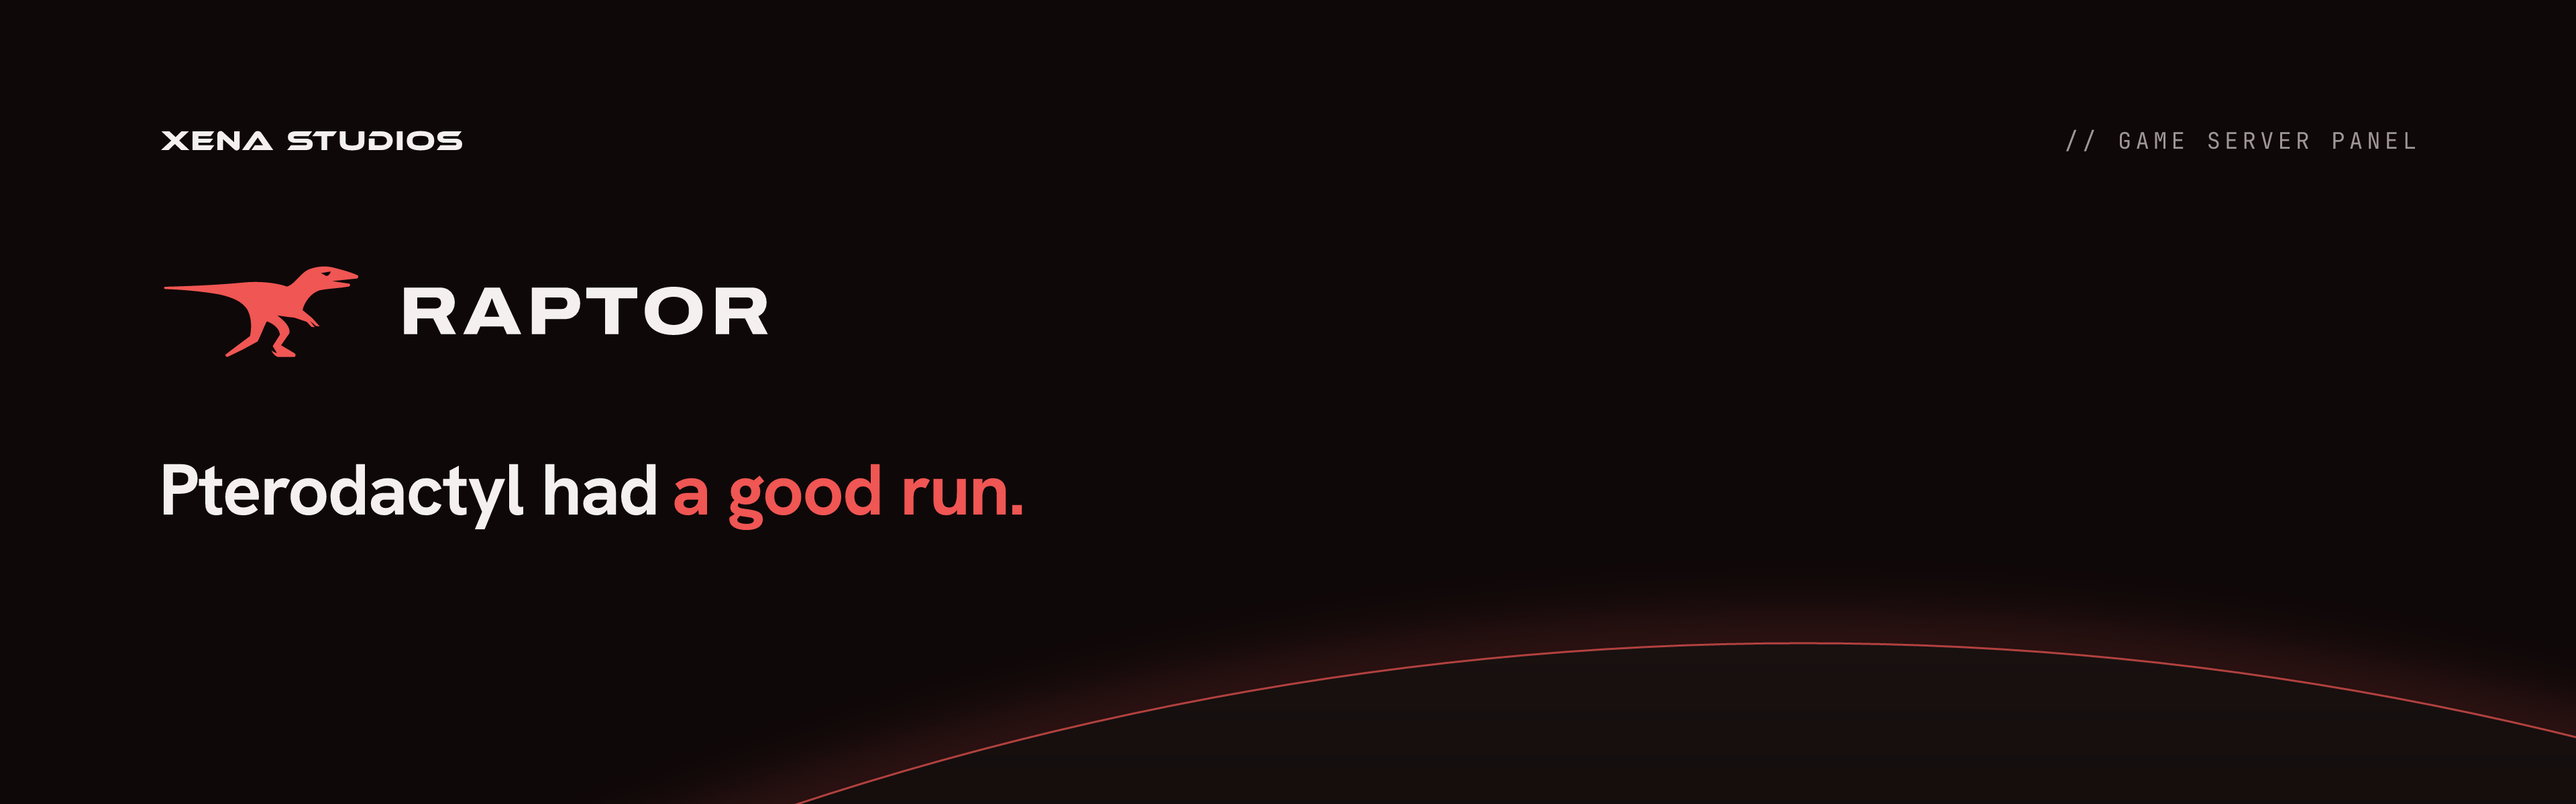
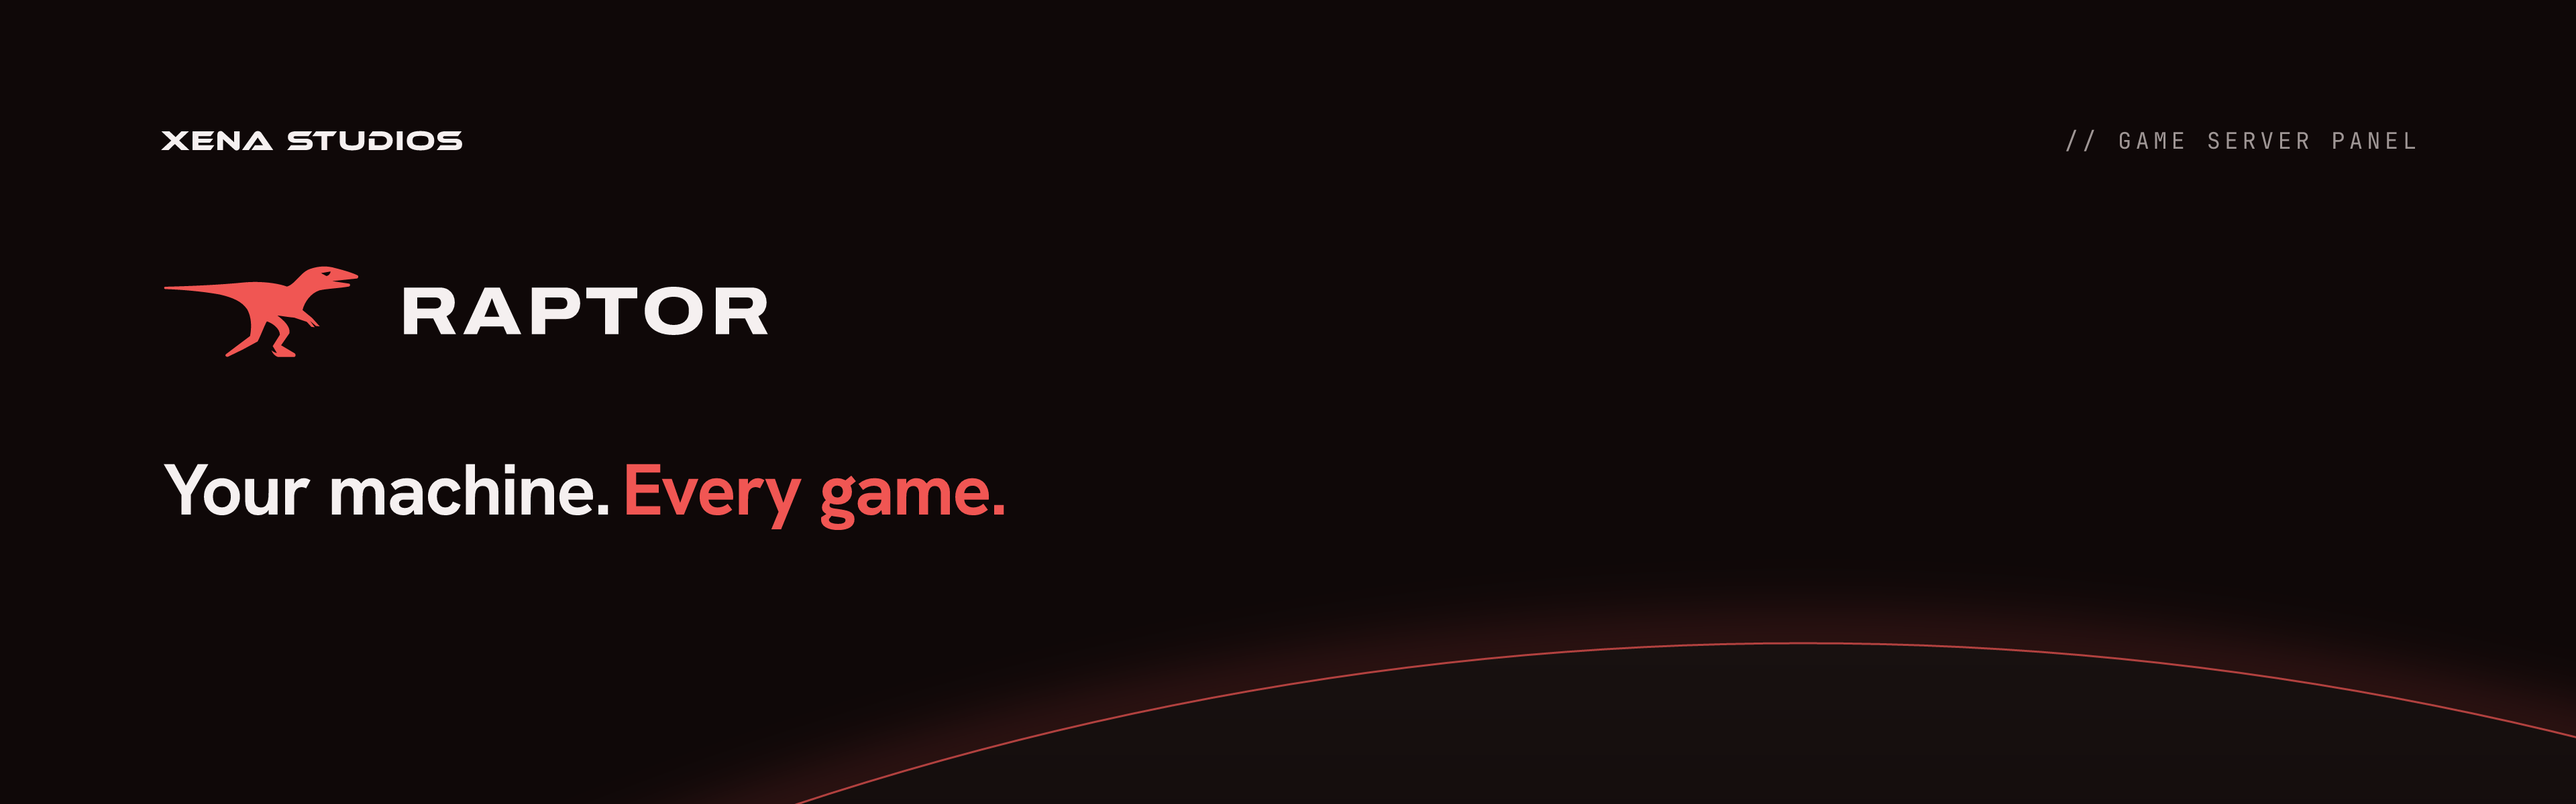
feat(raptor): the new headline, Your machine. Every game.

Changed region(s): [[0.0625, 0.555, 0.4062, 0.6783]]

diff --git a/scripts/build.ts b/scripts/build.ts
@@ -79,7 +79,7 @@ const hexify = (svg: string) => svg.replace(/oklch\([^)]+\)/g, oklchHex);
 const R = Object.fromEntries(Object.entries(raptorColors).map(([k, v]) => [k, oklchHex(v)]));
 const raptor = {
   kicker: "// GAME SERVER PANEL",
-  headline: ["Pterodactyl had ", "a good run."],
+  headline: ["Your machine. ", "Every game."],
 };
 
 const ORG_TAGLINE = "Game servers, and the tools to run them.";
